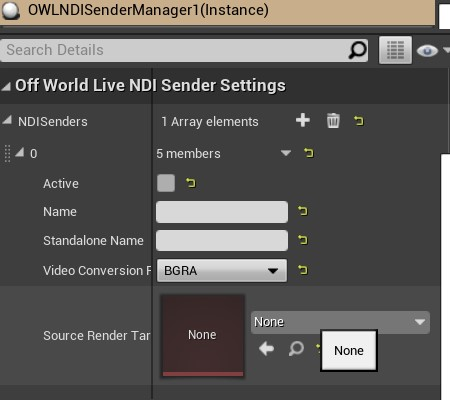
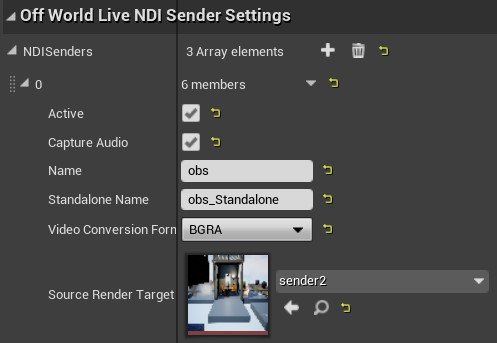
ndireceiver

diff --git a/livestreaming-toolkit/README.md b/livestreaming-toolkit/README.md
@@ -13,6 +13,8 @@ The toolkit works both `in-Editor` and `at Runtime` and is compatible with both 
 2. The `OWL Capture` component which can be attached to any Unreal Camera or Cinecam to deliver the same output and capabilities as the `OWL Cinecam`.
 3. The `Spout Sender Manager` which allows you to output any Unreal `Render Target` to [`Spout`](https://spout.zeal.co/) (including from `Composure` and Unreal's `Virtual Camera`).
 4. The `Spout Receiver Manager` which allows you to input any [`Spout`](https://spout.zeal.co/) video feed into Unreal as a `Render Target` including to `Composure` or as a `Material` etc.
+5. The `NDI Sender Manager` which allows you to output any Unreal `Render Target` to `NDI`(including from `Composure` and Unreal's `Virtual Camera`).
+6. The `NDI Receiver Manager` which allows you to input any `NDI` video feed into Unreal as a `Render Target` including to `Composure` or as a `Material` etc.
 
 
 
@@ -144,10 +146,10 @@ and a `Spout Sender Manager` which is sending the `Render Target` to Spout.
 
 ### Overview
 
-- The `NDI Sender Manager` is an Unreal Actor that you use to manager different real-time `NDI` video outputs from Unreal.
+- The `NDI Sender Manager` is an Unreal Actor that you use to manage different real-time `NDI` video and audio outputs from Unreal.
 - Outputs are managed as `Render Targets` in the same way as the `Spout Sender Manager`.
 - It works both `in-Editor` and `at-Runtime` and can be controlled through `Blueprints`.
-- It also works with alpha outputs, with DLSS, custom resolutions and variable framerates and so has additional features compared to the native NDI plugin for Unreal.
+- It also works with audio, alpha outputs, with DLSS, custom resolutions and variable framerates and so has additional features compared to the native NDI plugin for Unreal.
 
 ### Configuration
 
@@ -158,9 +160,10 @@ and a `Spout Sender Manager` which is sending the `Render Target` to Spout.
 3. Select/ create a `Render Target` by clicking the drop down (this can be from your `OWL Cinecam` as configured above or from another Unreal output.) 
 4. Name your `Sender` and `Standalone Sender` as this is what your video feeds will be called in `OBS`/ your `NDI` receiver programme.
 5. Select the `Video Conversion Format` you need. N.B. `BGRA` is required for alpha channel output.
-6. Click the `Active` box to begin sending to `NDI`.
-7. To stream multiple cameras, just add additional `Array Elements`.
-8. You can control the `Active` tick-box via `Blueprints` to manage which cameras are streaming from Unreal at any one time.
+6. Select `Capture Audio` if you want to send audio alongside the video feed. This will capture your viewport audio.
+7. Click the `Active` box to begin sending to `NDI`.
+8. To stream multiple cameras, just add additional `Array Elements`.
+9. You can control the `Active` tick-box via `Blueprints` to manage which cameras are streaming from Unreal at any one time.
 
 
 ## Spout Receiver Manager
@@ -185,6 +188,41 @@ and a `Spout Sender Manager` which is sending the `Render Target` to Spout.
 7. You can control the `Active` tick-box via `Blueprints` to manage which cameras are rendering simultaneously and so reduce computational load.
 8. To add your `Spout` video feed to your level, just drag-and-drop your `Render Target`from your `Content Browser` to any asset in your scene.
 ![Spout Receiver Details Panel](./images/receivermaterial.jpg)
+
+## NDI Receiver Manager
+
+### Overview
+
+- The `NDI Receiver Manager` is an Unreal Actor that you use to manage different real-time `NDI` video inputs to Unreal. 
+- Inputs are managed as `Render Targets` in the same way as the `NDI Sender Manager`
+- You need to create a `Material` from your `Render Target` to add the video input to `Actors` in your scene (explained below).
+- It works both `in-Editor` and `at-Runtime` and can be controlled through `Blueprints`.
+
+### Configuration
+
+1. Find the `OWLNDIReceiverManager` Actor in the `Place Actors` panel and drag it into your scene.  
+![NDI Receiver Manager](images/ndireceiver.jpg "image_tooltip")
+2. In `World Outliner` select `OWLNDIReceiverManager` so it opens in your `Details` panel, add a `NDI Receiver` `Array Element` and click the arrow in the right hand corner to open the `Array Element` showing its Members (there are 3). 
+![ Receiver Details Panel](./images/ndireceiverarray.jpg)
+3. Create a `Render Target` and give it a name.
+4. Select a `NDI` input feed from the list of options in the `Name` dropdown (any active Spout source will show).
+5. Click `Active` to start capturing the `NDI` source to your `Render Target`.
+6. To receive multiple input feeds, just add additional `Array Elements`.
+7. You can control the `Active` tick-box via `Blueprints` to manage which cameras are rendering simultaneously and so reduce computational load.
+8. To add your `NDI` video feed to your level, just drag-and-drop your `Render Target`from your `Content Browser` to any asset in your scene.
+![ Receiver Details Panel](./images/ndireceivermaterial.jpg)
+
+## Receving Alpha Video Feeds
+
+- Both the `Spout` and `NDI` Receiver Managers can receive alpha video feeds via this simple method:
+
+1. Double click on the material you have created from your Receiver Render Target: 
+![ Receiver Material Panel](./images/receiveralphamaterial.jpg)
+2. In the `Material` box in the `Details` panel select 'Blend Mode'>'Alpha Composite':
+![ Receiver Material Panel](./images/alphablendmode.jpg)
+3. In the Material blueprint connect the 'Alpha' node to the 'Opacity' node:
+![ Receiver Material Panel](./images/alphaopacity.jpg)
+4. Now your Render Target will show the alpha feed correctly.
 
 ## OWL Cinecam
 
